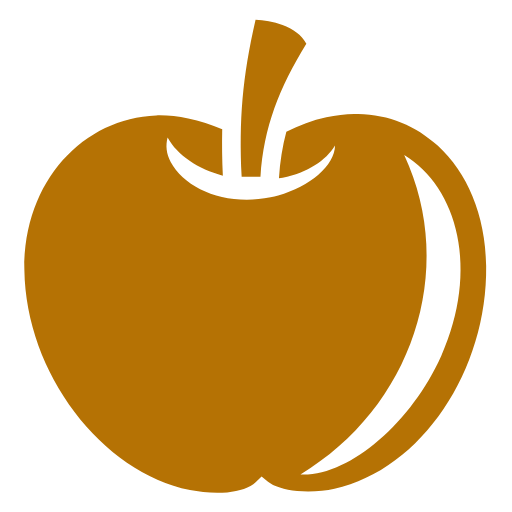
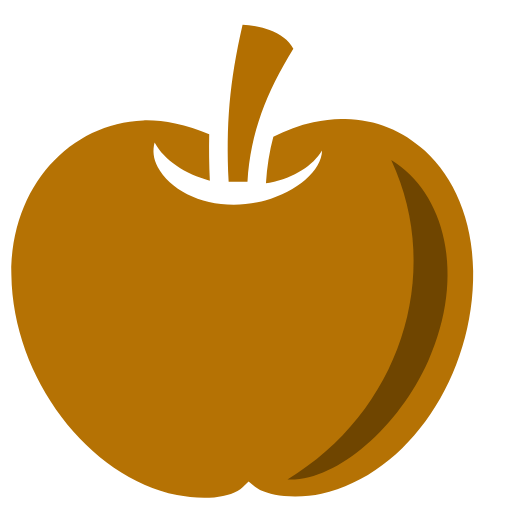
Disable physics debug rendering.
Makes things look nicer to humans. Why am I doing this?

Make long streched objects plain color, since bot won't actually see the textures either.

Allow scene selection by index as well as name.

Factor out wall properties.

diff --git a/food.cpp b/food.cpp
@@ -13,6 +13,7 @@ public:
     Main(Context* context) : Common(context) {
         this->sceneIdx = 0;
         this->windowWidth = 20.0f * Main::playerRadius;
+        this->drawDebugGeometry = false;
         context->RegisterFactory<ActivateDoorButtonComponent>();
         context->RegisterFactory<AppleButtonsAndComponent>();
         context->RegisterFactory<HumanActorComponent>();
@@ -92,13 +93,11 @@ public:
                     this->CreatePlayerNode(Vector2(this->GetWindowWidth() / 4.0f, this->GetWindowHeight() / 2.0f), -90.0f);
                     this->CreateAppleNode(Vector2(3.0f * this->GetWindowWidth() / 4.0f, this->GetWindowHeight() / 2.0f));
                     {
-                        auto node = this->scene->CreateChild("SeparatorWall");
+                        Node *node;
+                        this->CreateWallNode(node, this->GetWindowWidth() / 2.0f);
+                        node->SetName("SeparatorWall");
                         node->SetPosition2D(Vector2(this->GetWindowWidth() / 2.0, this->GetWindowHeight() / 2.0f));
                         node->SetRotation(Quaternion(90.0f));
-                        node->CreateComponent<RigidBody2D>();
-                        auto shape = node->CreateComponent<CollisionBox2D>();
-                        shape->SetSize(Vector2(this->GetWindowWidth() / 2.0f, this->wallWidth));
-                        shape->SetRestitution(0.0);
                     }
                 }},
                 {Main::sceneNameToIdx.at("hole-top"), [&](){
@@ -109,12 +108,13 @@ public:
                     this->CreateRandomAppleNode();
                     {
                         auto node = this->scene->CreateChild("SeparatorWall");
-                        node->SetPosition2D(Vector2(this->GetWindowWidth() / 2.0, 3.0f * this->GetWindowHeight() / 8.0f));
-                        node->SetRotation(Quaternion(90.0f));
                         node->CreateComponent<RigidBody2D>();
                         auto shape = node->CreateComponent<CollisionBox2D>();
                         shape->SetSize(Vector2(3.0f * this->GetWindowWidth() / 4.0f, this->wallWidth));
                         shape->SetRestitution(0.0);
+                        Main::SetSprite(node, this->resourceCache->GetResource<Sprite2D>("./gray.png"));
+                        node->SetPosition2D(Vector2(this->GetWindowWidth() / 2.0, 3.0f * this->GetWindowHeight() / 8.0f));
+                        node->SetRotation(Quaternion(90.0f));
                     }
                 }},
                 {Main::sceneNameToIdx.at("small-hole"), [&](){
@@ -127,15 +127,16 @@ public:
                     auto bottomSeparatorWallNode = this->scene->CreateChild("SeparatorWallBottom");
                     {
                         auto& node = bottomSeparatorWallNode;
+                        node->SetRotation(Quaternion(90.0f));
                         node->SetPosition2D(Vector2(
                             this->GetWindowWidth() / 2.0,
                             3.0f * this->GetWindowHeight() / 8.0f - Main::playerRadius / 2.0f
                         ));
-                        node->SetRotation(Quaternion(90.0f));
-                        node->CreateComponent<RigidBody2D>();
                         auto shape = node->CreateComponent<CollisionBox2D>();
                         shape->SetSize(Vector2(this->GetWindowWidth() / 4.0f, this->wallWidth));
                         shape->SetRestitution(0.0);
+                        node->CreateComponent<RigidBody2D>();
+                        Main::SetSprite(node, this->resourceCache->GetResource<Sprite2D>("./gray.png"));
                     } {
                         auto node = bottomSeparatorWallNode->Clone();
                         node->SetName("SeparatorWallTop");
@@ -162,6 +163,7 @@ public:
                         auto shape = node->CreateComponent<CollisionBox2D>();
                         shape->SetSize(Vector2(bottomSeparatorLength, this->wallWidth));
                         shape->SetRestitution(0.0);
+                        Main::SetSprite(node, this->resourceCache->GetResource<Sprite2D>("./gray.png"));
                     } {
                         auto node = bottomSeparatorWallNode->Clone();
                         node->SetName("SeparatorWallTop");
@@ -176,11 +178,14 @@ public:
                             bottomSeparatorWallNode->GetPosition2D().x_,
                             this->GetWindowHeight() / 2.0f
                         ));
+                        auto shape = node->GetComponent<CollisionBox2D>();
+                        shape->SetSize(Vector2(bottomSeparatorLength, this->wallWidth * 0.9f));
                         auto maxDistComponent = node->CreateComponent<MaxDistComponent>();
                         maxDistComponent->SetSpeed(Vector2::RIGHT * this->GetWindowWidth() / 4.0f);
                         maxDistComponent->SetMaxDist((this->GetWindowWidth() - bottomSeparatorLength) / 2.0f);
                         auto body = node->GetComponent<RigidBody2D>();
                         body->SetBodyType(BT_KINEMATIC);
+                        Main::SetSprite(node, this->resourceCache->GetResource<Sprite2D>("./brown.png"), -1);
                     }
                 }},
                 {Main::sceneNameToIdx.at("apple-button"), [&](){
@@ -226,20 +231,18 @@ public:
                     this->SetTitle("Are buttons and doors related?");
                     this->CreateWallNodes();
                     this->CreateRandomPlayerNode();
-                    auto bottomSeparatorWallNode = this->scene->CreateChild("SeparatorWallBottom");
+                    Node *bottomSeparatorWallNode;
                     auto bottomSeparatorLength = (this->GetWindowHeight() - 3.0f * Main::playerRadius) / 2.0f;
                     MaxDistComponent *maxDistComponent;
                     {
                         auto& node = bottomSeparatorWallNode;
+                        this->CreateWallNode(node, bottomSeparatorLength);
+                        node->SetName("SeparatorWallBottom");
                         node->SetPosition2D(Vector2(
                             this->GetWindowWidth() / 2.0f,
                             bottomSeparatorLength / 2.0f
                         ));
                         node->SetRotation(Quaternion(90.0f));
-                        node->CreateComponent<RigidBody2D>();
-                        auto shape = node->CreateComponent<CollisionBox2D>();
-                        shape->SetSize(Vector2(bottomSeparatorLength, this->wallWidth));
-                        shape->SetRestitution(0.0);
                     } {
                         auto node = bottomSeparatorWallNode->Clone();
                         node->SetName("SeparatorWallTop");
@@ -254,6 +257,7 @@ public:
                             bottomSeparatorWallNode->GetPosition2D().x_,
                             this->GetWindowHeight() / 2.0f
                         ));
+                        Main::SetSprite(node, this->resourceCache->GetResource<Sprite2D>("./brown.png"), -1);
                         maxDistComponent = node->CreateComponent<MaxDistComponent>();
                         maxDistComponent->SetSpeed(Vector2::RIGHT * this->GetWindowWidth() / 4.0f);
                         maxDistComponent->SetMaxDist((this->GetWindowWidth() - bottomSeparatorLength) / 2.0f);
@@ -314,7 +318,7 @@ public:
                     shape->SetFriction(0.0f);
                     shape->SetRestitution(Main::playerRestitution);
                     this->MoveToRandomEmptySpace(node);
-                    Main::SetSprite(node, this->resourceCache->GetResource<Sprite2D>("./spikes-full.png"));
+                    Main::SetSprite(node, this->resourceCache->GetResource<Sprite2D>("./spikes.png"));
                 }},
                 {Main::sceneNameToIdx.at("bouncer"), [&](){
                     // Introduce the player to a bouncer.
@@ -473,18 +477,31 @@ public:
     virtual void StartOnce() override {
         String sceneName;
         auto args = GetArguments();
+        size_t sceneIdx;
+        bool sceneIdxGiven = false;
         decltype(args.Size()) i = 0;
         while (i < args.Size()) {
             auto& arg = args[i];
             if (arg == "-zscene") {
                 ++i;
                 sceneName = args[i].CString();
+            } else if (arg == "-zscene-idx") {
+                sceneIdxGiven = true;
+                ++i;
+                sceneIdx = std::stoull(args[i].CString());
             }
             ++i;
         }
-        auto it = this->sceneNameToIdx.find(sceneName);
-        if (it != this->sceneNameToIdx.end()) {
-            this->sceneIdx = it->second;
+        if (sceneIdxGiven) {
+            this->sceneIdx = sceneIdx;
+        } else {
+            auto it = this->sceneNameToIdx.find(sceneName);
+            if (it != this->sceneNameToIdx.end()) {
+                this->sceneIdx = it->second;
+            } else {
+                URHO3D_LOGERROR("Scene name not found.");
+                this->engine_->Exit();
+            }
         }
     }
 private:
@@ -753,8 +770,10 @@ private:
         vec = Vector2(vec3.x_, vec3.y_);
     }
 
-    static void SetSprite(Node *node, Sprite2D *sprite) {
+    static void SetSprite(Node *node, Sprite2D *sprite, int layer = 0) {
         auto position = node->GetPosition2D();
+        auto rotation = node->GetRotation();
+        node->SetRotation(Quaternion(0.0f));
         auto b2Aabb = node->GetDerivedComponent<CollisionShape2D>()->GetFixture()->GetAABB(0);
         auto lowerBound = Vector2(b2Aabb.lowerBound.x, b2Aabb.lowerBound.y);
         auto upperBound = Vector2(b2Aabb.upperBound.x, b2Aabb.upperBound.y);
@@ -763,6 +782,8 @@ private:
         auto staticSprite = node->GetOrCreateComponent<StaticSprite2D>();
         staticSprite->SetSprite(sprite);
         staticSprite->SetDrawRect(aabb - Rect(position, position));
+        staticSprite->SetLayer(layer);
+        node->SetRotation(rotation);
     }
 
     Node *playerNode;
@@ -973,16 +994,21 @@ private:
         Main::SetSprite(node, this->resourceCache->GetResource<Sprite2D>("./shiny-apple-brown.png"));
     }
 
+    void CreateWallNode(Node *&node, float length) {
+        node = this->scene->CreateChild("Wall");
+        node->CreateComponent<RigidBody2D>();
+        auto shape = node->CreateComponent<CollisionBox2D>();
+        shape->SetSize(Vector2(length, this->wallWidth));
+        shape->SetRestitution(0.0);
+        Main::SetSprite(node, this->resourceCache->GetResource<Sprite2D>("./gray.png"));
+    }
+
     void CreateWallNodes() {
         Node *bottomWallNode;
+        this->CreateWallNode(bottomWallNode, this->GetWindowWidth());
+        bottomWallNode->SetName("BottomWall");
+        bottomWallNode->SetPosition2D(Vector2(this->GetWindowWidth() / 2.0, this->wallWidth / 2.0f));
         {
-            bottomWallNode = this->scene->CreateChild("BottomWall");
-            bottomWallNode->SetPosition2D(Vector2(this->GetWindowWidth() / 2.0, this->wallWidth / 2.0f));
-            bottomWallNode->CreateComponent<RigidBody2D>();
-            auto shape = bottomWallNode->CreateComponent<CollisionBox2D>();
-            shape->SetSize(Vector2(this->GetWindowWidth(), this->wallWidth));
-            shape->SetRestitution(0.0);
-        } {
             auto node = bottomWallNode->Clone();
             node->SetName("TopWall");
             node->SetPosition2D(Vector2(this->GetWindowWidth() / 2.0f, this->GetWindowHeight() - (this->wallWidth / 2.0f)));
@@ -1118,6 +1144,7 @@ private:
         this->MoveToRandomEmptySpace(node, bounds, randomRotation);
     }
 
+    // TODO: this uses the orthogonal AABB box. So a long diagonal object blocks the entire scene.
     void MoveToRandomEmptySpace(Node *node, const Rect& bounds, bool randomRotation = true) {
         do {
             node->SetPosition(Vector2(

diff --git a/common.hpp b/common.hpp
@@ -25,6 +25,7 @@
 #include <Urho3D/Graphics/Renderer.h>
 #include <Urho3D/IO/File.h>
 #include <Urho3D/IO/FileSystem.h>
+#include <Urho3D/IO/Log.h>
 #include <Urho3D/IO/MemoryBuffer.h>
 #include <Urho3D/Input/Input.h>
 #include <Urho3D/Input/InputEvents.h>
@@ -124,6 +125,7 @@ protected:
     static constexpr unsigned int voxelResolution = 100;
 
     bool debugEvents;
+    bool drawDebugGeometry;
     Camera *camera;
     Font *font;
     Input *input;
@@ -178,7 +180,7 @@ protected:
         using namespace KeyDown;
         auto key = eventData[P_KEY].GetInt();
         if (key == KEY_ESCAPE) {
-            engine_->Exit();
+            this->engine_->Exit();
         } else if (key == KEY_F5) {
             this->Reset();
         } else if (key == KEY_F6) {
@@ -212,7 +214,9 @@ protected:
     }
 
     void HandlePostRenderUpdate(StringHash eventType, VariantMap& eventData) {
-        this->physicsWorld->DrawDebugGeometry();
+        if (this->drawDebugGeometry) {
+            this->physicsWorld->DrawDebugGeometry();
+        }
     }
 
     void HandleMouseButtonUp(StringHash eventType, VariantMap& eventData) {
